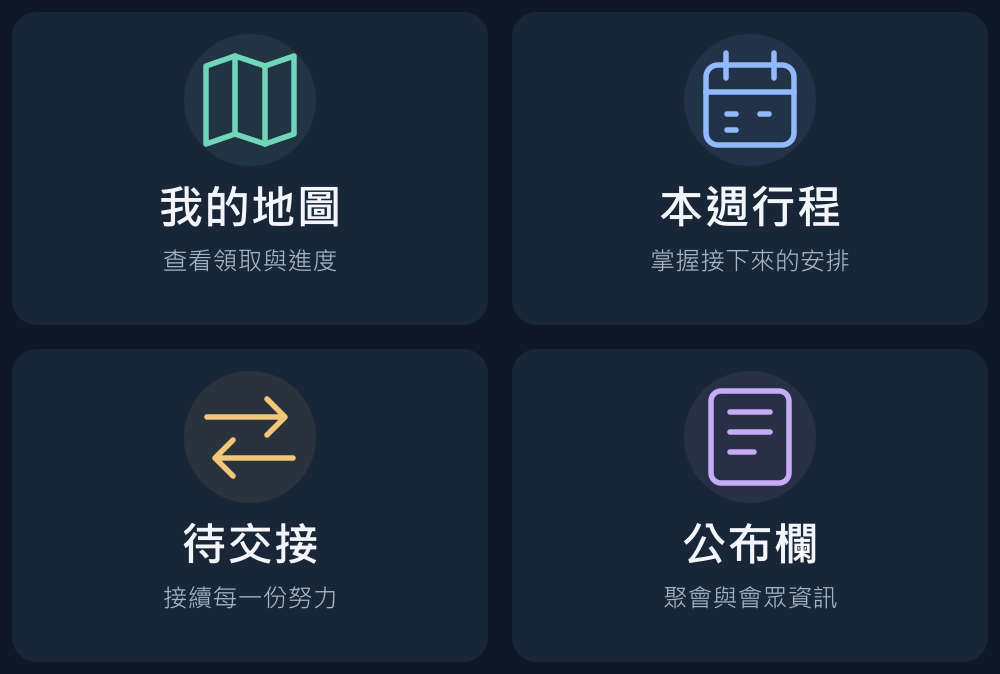
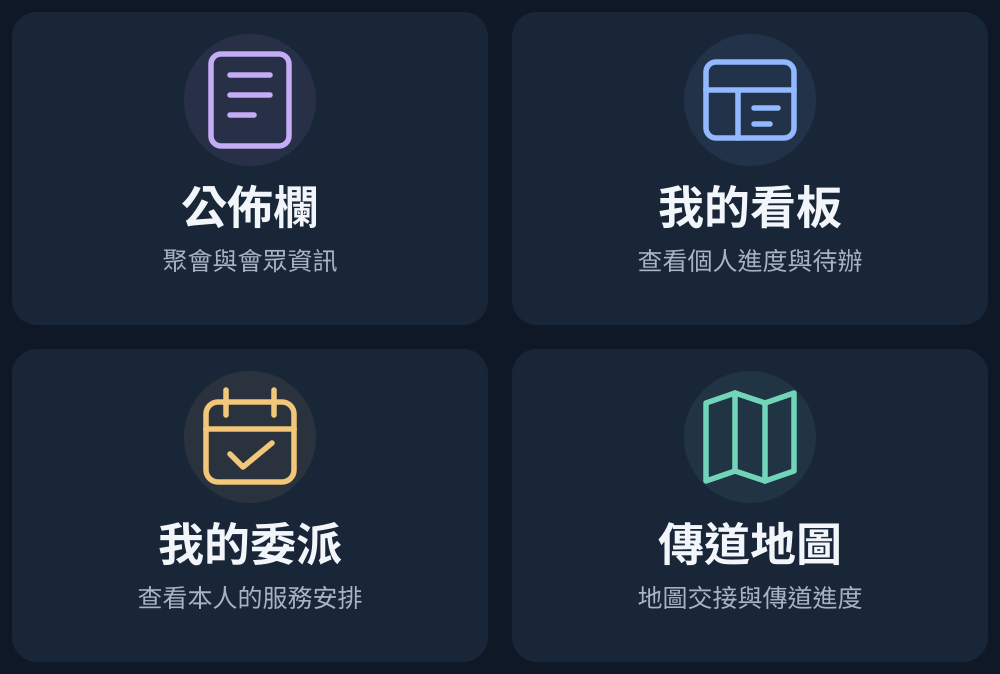
feat: 整合個人委派並分為弟兄服務與節目委派

diff --git a/src/app/dashboard/page.tsx b/src/app/dashboard/page.tsx
@@ -7,7 +7,9 @@ import WeeklyMinistry from '../../components/dashboard/WeeklyMinistry'
 import LineBotStatus from '../../components/dashboard/LineBotStatus'
 import LineNotificationPreference from '../../components/dashboard/LineNotificationPreference'
 import SyncCheck from '../../components/dashboard/SyncCheck'
-type Dashboard = { today: string; handoffs: { areaId: string; label: string; publisher: string; submittedDate: string | null; next: {name: string; date: string} | null }[]; tasks: { id: string; areaId: string; label: string; date: string; status: string }[]; name: string; isAdmin: boolean; maps: { id: string; label: string; sheetNo: number | null; dispatchedDate: string | null; heldDays: number | null; ministryPending: number; ministryActive: boolean; report: { date: string; status: string } | null }[]; pendingRequests: { id: string; label: string; date: string }[]; reviewCount: number | null }
+import PersonalAssignmentsPanel from '../../components/dashboard/PersonalAssignments'
+import type { PersonalAssignments } from '../../lib/personal-assignments'
+type Dashboard = { assignments: PersonalAssignments; today: string; handoffs: { areaId: string; label: string; publisher: string; submittedDate: string | null; next: {name: string; date: string} | null }[]; tasks: { id: string; areaId: string; label: string; date: string; status: string }[]; name: string; isAdmin: boolean; maps: { id: string; label: string; sheetNo: number | null; dispatchedDate: string | null; heldDays: number | null; ministryPending: number; ministryActive: boolean; report: { date: string; status: string } | null }[]; pendingRequests: { id: string; label: string; date: string }[]; reviewCount: number | null }
 export default function DashboardPage() {
   const [data, setData] = useState<Dashboard | null>(null)
   const [error, setError] = useState('')
@@ -25,15 +27,16 @@ export default function DashboardPage() {
   useEffect(() => {
     if (!data) return
     const view = new URLSearchParams(window.location.search).get('view')
-    if (!view || !['maps', 'week', 'handoffs'].includes(view)) return
+    if (!view || !['maps', 'week', 'handoffs', 'assignments'].includes(view)) return
     const frame = requestAnimationFrame(() => document.getElementById(view)?.scrollIntoView({ block: 'start' }))
     return () => cancelAnimationFrame(frame)
   }, [data])
   return <DashboardLayout><div className="mx-auto max-w-6xl space-y-5 p-4 md:p-8 text-mc-text">
-    <header className="flex items-center justify-between gap-3"><div><h1 className="text-xl font-semibold">{data ? `${data.name}的地圖` : '我的地圖'}</h1><p className="mt-1 text-sm text-mc-text/50">查看領取進度與待辦事項</p></div><a href="/area-status" className="flex items-center gap-2 rounded-lg bg-mc-highlight px-3 py-2 text-sm"><MapPinned size={16} />申請領圖</a></header>
+    <header className="flex items-center justify-between gap-3"><div><h1 className="text-xl font-semibold">{data ? `${data.name}的看板` : '我的看板'}</h1><p className="mt-1 text-sm text-mc-text/50">查看個人委派、領取進度與待辦事項</p></div><a href="/area-status" className="flex items-center gap-2 rounded-lg bg-mc-highlight px-3 py-2 text-sm"><MapPinned size={16} />申請領圖</a></header>
     {error && <div role="alert" className="rounded-xl bg-red-400/10 p-4 text-red-300">{error}<button className="ml-3 underline" onClick={() => setRevision(v => v + 1)}>重試</button></div>}
-    {!data && !error && <p role="status" className="py-12 text-center text-mc-text/50">正在載入你的地圖…</p>}
+    {!data && !error && <p role="status" className="py-12 text-center text-mc-text/50">正在載入你的看板…</p>}
     {data && <>
+      <PersonalAssignmentsPanel data={data.assignments} />
       {data.isAdmin && <AdminTaskCenter />}
       {!data.isAdmin && <section id="handoffs" className="rounded-xl border border-amber-400/30 bg-amber-400/10 p-4"><h2 className="mb-3 font-semibold text-amber-300">待交接 · {data.handoffs.length} 張</h2><div className="space-y-2">{!data.handoffs.length && <p className="text-sm text-mc-text/50">暫無待交接地圖</p>}{data.handoffs.map(item => <a key={item.areaId} href={`/map/ministry/${item.areaId}`} className="flex items-center justify-between gap-3 rounded-lg bg-black/10 p-3"><div><strong>{item.label}</strong><p className="mt-1 text-xs text-mc-text/60">{item.publisher} 已提交 · {item.submittedDate || '日期未記錄'}</p><p className="mt-1 text-xs text-amber-200">{item.next ? `下一位：${item.next.name} · ${item.next.date}` : '尚未安排下一位'}</p></div><span className="shrink-0 text-sm">查看交接 →</span></a>)}</div></section>}
       <div className="grid grid-cols-2 gap-3"><div className="rounded-xl border border-white/10 bg-mc-card p-4"><Map className="mb-2 text-blue-300" size={20} /><strong className="text-3xl">{data.maps.length}</strong><p className="mt-1 text-sm text-mc-text/60">我持有的地圖</p></div><a href="/map-requests" className="rounded-xl border border-white/10 bg-mc-card p-4"><Clock3 className="mb-2 text-amber-300" size={20} /><strong className="text-3xl">{data.pendingRequests.length}</strong><p className="mt-1 text-sm text-mc-text/60">我的待審申請</p></a></div>

diff --git a/scripts/check-personal-assignments.ts b/scripts/check-personal-assignments.ts
@@ -1,0 +1,64 @@
+import assert from 'node:assert/strict'
+import type { PrismaClient } from '@prisma/client'
+import { personalAssignments, assignmentsText } from '../src/lib/personal-assignments'
+import { lineBotAnswer } from '../src/lib/line-bot-queries'
+import type { Meeting } from '../src/lib/midweek'
+
+async function main() {
+  let members = [{ id: 'me', name: '王小明' }, { id: 'other', name: '陳小華' }]
+  let person: { id: string } | null = { id: 'person' }
+  let active = true
+  const meeting: Meeting = { date: '2026-10-16', start: '19:30', chair: '王小明', reading: '', note: '', noteHighlight: '', items: [
+    { id: 'talk', section: 'ministry', title: '開始交談', minutes: 3, counsel: 1, role: '學生/助手', person: '王小明', assistant: '陳小華', highlight: '' },
+    { id: 'help', section: 'ministry', title: '培養興趣', minutes: 4, counsel: 1, role: '學生/助手', person: '陳小華', assistant: ' 王小明 ', highlight: '' },
+  ] }
+  const records = [
+    { key: 'midweek:record:current', value: JSON.stringify({ published: meeting, draft: { ...meeting, chair: '陳小華' }, versions: [{ number: 99, meeting: { ...meeting, chair: '陳小華' } }] }) },
+    { key: 'midweek:record:draft', value: JSON.stringify({ published: null, draft: meeting }) },
+    { key: 'midweek:record:past', value: JSON.stringify({ published: { ...meeting, date: '2026-10-09' } }) },
+    { key: 'midweek:record:future', value: JSON.stringify({ published: { ...meeting, date: '2027-01-01' } }) },
+  ]
+  const db = {
+    member: { findMany: async () => members, findUnique: async () => ({ id: 'me', active }) },
+    servicePerson: { findUnique: async () => person },
+    serviceWeek: { findMany: async () => [
+      { startDate: '2026-10-12', endDate: '2026-10-18', stopped: false, assignments: { micA: { personId: 'person', name: '舊姓名' }, audio: { personId: 'person', name: '王小明' }, stage: { personId: 'else', name: '王小明' }, watchtower: { personId: 'person', name: '王小明' } } },
+      { startDate: '2026-10-19', endDate: '2026-10-25', stopped: true, assignments: { audio: { personId: 'person', name: '王小明' } } },
+    ] },
+    setting: { findMany: async () => records },
+  } as unknown as PrismaClient
+  const now = new Date('2026-10-17T02:00:00Z')
+  const data = await personalAssignments(db, 'me', now)
+  assert.equal(data.upcoming.length, 9)
+  assert.equal(data.past.length, 3)
+  assert.equal(data.upcoming.filter(i => i.kind === 'service').length, 2)
+  assert.equal(data.upcoming.filter(i => i.kind === 'program').length, 7)
+  assert.equal(data.upcoming.find(i => i.title === '守望台朗讀')?.kind, 'program')
+  assert.equal(data.upcoming.filter(i => i.role === '助手').length, 2)
+  assert.equal(data.upcoming.filter(i => i.role === '學生').length, 2)
+  assert.equal(data.upcoming.filter(i => i.title === '主席').length, 2)
+  assert(!data.upcoming.some(i => i.id.includes('draft')))
+  assert(!data.upcoming.some(i => i.title === '講台'))
+  assert.match(await lineBotAnswer(db, 'uid', '我的委派', now), /開始交談（學生）/)
+  assert.match(assignmentsText(data, 'https://example.test/dashboard'), /完整委派與過去紀錄/)
+  const long = assignmentsText({ ...data, upcoming: Array.from({ length: 100 }, (_, i) => ({ ...data.upcoming[0], title: '很長的節目'.repeat(60), id: String(i) })) }, 'https://example.test/dashboard')
+  assert(long.length <= 4500)
+  assert.match(long, /另有 \d+ 項/)
+  assert.match(long, /https:\/\/example.test\/dashboard\/assignments\/service/)
+  assert.match(long, /https:\/\/example.test\/dashboard\/assignments\/program/)
+  const sunday = await personalAssignments(db, 'me', new Date('2026-10-18T15:59:59Z'))
+  const monday = await personalAssignments(db, 'me', new Date('2026-10-18T16:00:00Z'))
+  assert.equal(sunday.upcoming.length, 9)
+  assert.equal(monday.upcoming.length, 3)
+  members = [...members, { id: 'duplicate', name: ' 王小明 ' }]
+  assert.equal((await personalAssignments(db, 'me', now)).upcoming.length, 3)
+  assert.match((await personalAssignments(db, 'me', now)).notices.join(''), /姓名/)
+  person = null
+  const empty = await personalAssignments(db, 'me', now)
+  assert.equal(empty.upcoming.length, 0)
+  assert.match(assignmentsText(empty, 'https://example.test'), /沒有本週/)
+  active = false
+  assert.match(await lineBotAnswer(db, 'uid', '我的委派', now), /停用/)
+  console.log('PASS: personal identity, published snapshots, all roles, stopped weeks, Taipei week boundary, duplicate names, LINE query and long replies')
+}
+main().catch(error => { console.error(error); process.exitCode = 1 })

diff --git a/src/lib/personal-assignments.ts b/src/lib/personal-assignments.ts
@@ -1,0 +1,66 @@
+import type { PrismaClient } from '@prisma/client'
+import { taipeiDate } from './google-sheets'
+import { addDays, serviceRoles, type Assignments } from './service-roster'
+import type { MeetingRecord } from './midweek'
+
+export type AssignmentKind = 'service' | 'program'
+export type PersonalAssignment = { kind: AssignmentKind; id: string; date: string; endDate: string; category: string; title: string; role: string; href: string }
+export type PersonalAssignments = { upcoming: PersonalAssignment[]; past: PersonalAssignment[]; notices: string[] }
+
+export async function personalAssignments(db: PrismaClient, memberId: string, now = new Date()): Promise<PersonalAssignments> {
+  const [members, person, weeks, records] = await Promise.all([
+    db.member.findMany({ where: { active: true, deletedAt: null }, select: { id: true, name: true } }),
+    db.servicePerson.findUnique({ where: { memberId }, select: { id: true } }),
+    db.serviceWeek.findMany({ where: { stopped: false }, orderBy: { startDate: 'asc' } }),
+    db.setting.findMany({ where: { key: { startsWith: 'midweek:record:' } } }),
+  ])
+  const member = members.find(m => m.id === memberId)
+  if (!member) return { upcoming: [], past: [], notices: [] }
+  const name = member.name.trim()
+  const uniqueName = !!name && members.filter(m => m.name.trim() === name).length === 1
+  const notices = []
+  if (!uniqueName) notices.push('週中節目姓名無法唯一對應，請管理員確認成員姓名。')
+  if (!person) notices.push('帳號尚未連結服務安排人員，請管理員確認。')
+  const entries: PersonalAssignment[] = []
+  for (const week of weeks) {
+    if (week.stopped || !person) continue
+    const assignments = week.assignments as Assignments
+    for (const role of serviceRoles) if (assignments[role.id]?.personId === person.id) {
+      entries.push({ kind: ['watchtower', 'chair', 'reader'].includes(role.id) ? 'program' : 'service', id: `service:${week.startDate}:${role.id}`, date: week.startDate, endDate: week.endDate, category: '服務安排', title: role.label, role: '', href: '/bulletin/service-roster/all?tab=mine' })
+    }
+  }
+  if (uniqueName) for (const row of records) {
+    const meeting = (JSON.parse(row.value) as MeetingRecord).published
+    if (!meeting) continue
+    const href = `/bulletin/midweek-meeting?week=${encodeURIComponent(row.key.slice('midweek:record:'.length))}`
+    const add = (id: string, title: string, role: string) => entries.push({ kind: 'program', id: `${row.key}:${id}`, date: meeting.date, endDate: meeting.date, category: '週中聚會', title, role, href })
+    if (meeting.chair.trim() === name) add('chair', '主席', '')
+    for (const item of meeting.items) {
+      if (item.person.trim() === name) add(`${item.id}:person`, item.title, item.role === '學生/助手' ? '學生' : item.role || '負責人')
+      if (item.assistant.trim() === name) add(`${item.id}:assistant`, item.title, '助手')
+    }
+  }
+  const today = taipeiDate(now)
+  const monday = addDays(today, -((new Date(`${today}T04:00:00Z`).getUTCDay() + 6) % 7))
+  const isUpcoming = (item: PersonalAssignment) => item.category === '服務安排' ? item.endDate >= today : item.date >= monday
+  entries.sort((a, b) => a.date.localeCompare(b.date) || a.id.localeCompare(b.id))
+  return { upcoming: entries.filter(isUpcoming), past: entries.filter(item => !isUpcoming(item)).reverse(), notices }
+}
+
+export function assignmentsText(data: PersonalAssignments, dashboardUrl: string): string {
+  const base = new URL(dashboardUrl).origin
+  const sections = ([['service', '弟兄服務'], ['program', '節目委派']] as const).map(([kind, label]) => {
+    const items = data.upcoming.filter(item => item.kind === kind)
+    let text = `【${label}】本週起 · ${items.length} 項`
+    let count = 0
+    for (const item of items) {
+      const line = `\n• ${item.date}${item.endDate !== item.date ? `～${item.endDate}` : ''}｜${item.category}｜${item.title}${item.role ? `（${item.role}）` : ''}`
+      if (text.length + line.length > 1750) break
+      text += line; count++
+    }
+    if (!items.length) text += '\n目前沒有本週及未來已公布的委派。'
+    if (count < items.length) text += `\n另有 ${items.length - count} 項，請至網站查看。`
+    return `${text}\n${base}/dashboard/assignments/${kind}`
+  })
+  return `我的委派\n${sections.join('\n\n')}${data.notices.length ? `\n\n${data.notices.join('\n')}` : ''}\n\n完整委派與過去紀錄請開啟上述連結。`
+}

diff --git a/src/app/api/dashboard/route.ts b/src/app/api/dashboard/route.ts
@@ -5,6 +5,7 @@ import { allocationLabel, isAreaDispatched, idleCalendarDays } from '../../../li
 import { ministryCycle } from '../../../lib/ministry'
 import { ministryHandoff } from '../../../lib/ministry-handoffs'
 import { taipeiDate } from '../../../lib/google-sheets'
+import { personalAssignments } from '../../../lib/personal-assignments'
 export const dynamic = 'force-dynamic'
 export async function GET() {
   const auth = await requireApiUser()
@@ -12,11 +13,12 @@ export async function GET() {
   try {
     const memberId = auth.user.id!
     const isAdmin = auth.user.role === 'admin'
-    const [areas, pendingRequests, reviewCount, assignedVisits] = await Promise.all([
+    const [areas, pendingRequests, reviewCount, assignedVisits, assignments] = await Promise.all([
       prisma.area.findMany({ where: { assignedMemberId: memberId }, select: { id: true, name: true, mapId: true, mapAreaId: true, sheetNo: true, assignedMemberId: true, dispatchedAt: true, completedAt: true, ministryVisits: { select: { status: true, cycleKey: true, publisherName: true, scheduledDate: true, submittedAt: true } }, reports: { where: { memberId }, orderBy: { submittedAt: 'desc' }, take: 1, select: { submittedAt: true, status: true } } }, orderBy: { dispatchedAt: 'asc' } }),
       prisma.mapRequest.findMany({ where: { memberId, status: 'pending' }, select: { id: true, createdAt: true, area: { select: { name: true, mapId: true, mapAreaId: true, sheetNo: true } } }, orderBy: { createdAt: 'asc' } }),
       isAdmin ? prisma.mapRequest.count({ where: { status: 'pending' } }) : Promise.resolve(null),
       prisma.ministryVisit.findMany({ where: { publisherId: memberId, status: { in: ['planned', 'active'] } }, include: { area: { select: { id: true, name: true, mapId: true, sheetNo: true, mapAreaId: true, assignedMemberId: true, dispatchedAt: true, completedAt: true } } }, orderBy: { scheduledDate: 'asc' } }),
+      personalAssignments(prisma, memberId),
     ])
     const today = taipeiDate(new Date())
     const maps = areas.filter(isAreaDispatched).map(area => {
@@ -28,6 +30,6 @@ export async function GET() {
       return handoff ? [handoff] : []
     })
     const tasks = assignedVisits.filter(v => isAreaDispatched(v.area) && v.cycleKey === ministryCycle(v.area)).map(v => ({ id: v.id, areaId: v.areaId, label: allocationLabel(v.area), date: v.scheduledDate, status: v.status }))
-    return NextResponse.json({ today, handoffs, tasks, name: auth.user.name || '成員', isAdmin, maps, pendingRequests: pendingRequests.map(r => ({ id: r.id, label: allocationLabel(r.area), date: taipeiDate(r.createdAt) })), reviewCount }, { headers: { 'Cache-Control': 'no-store' } })
+    return NextResponse.json({ today, assignments, handoffs, tasks, name: auth.user.name || '成員', isAdmin, maps, pendingRequests: pendingRequests.map(r => ({ id: r.id, label: allocationLabel(r.area), date: taipeiDate(r.createdAt) })), reviewCount }, { headers: { 'Cache-Control': 'no-store' } })
   } catch { return NextResponse.json({ error: '暫時無法讀取你的地圖，請稍後重試。' }, { status: 503 }) }
 }

diff --git a/src/components/dashboard/PersonalAssignments.tsx b/src/components/dashboard/PersonalAssignments.tsx
@@ -1,0 +1,25 @@
+import Link from 'next/link'
+import type { AssignmentKind, PersonalAssignment, PersonalAssignments } from '@/lib/personal-assignments'
+
+function AssignmentList({ items }: { items: PersonalAssignment[] }) {
+  return <ul className="divide-y divide-white/10">{items.map(item => <li key={item.id}>
+    <a href={item.href} className="block rounded-lg py-3 hover:bg-white/5 focus-visible:outline focus-visible:outline-2">
+      <p className="text-sm text-mc-text/60"><time dateTime={item.date}>{item.date}</time>{item.endDate !== item.date && ` ～ ${item.endDate}`} · {item.category}</p>
+      <p className="mt-1 font-medium">{item.title}{item.role && <span className="ml-2 text-blue-300">{item.role}</span>}</p>
+    </a>
+  </li>)}</ul>
+}
+
+export default function PersonalAssignmentsPanel({ data, kind = 'service' }: { data: PersonalAssignments; kind?: AssignmentKind }) {
+  const upcoming = data.upcoming.filter(item => item.kind === kind)
+  const past = data.past.filter(item => item.kind === kind)
+  return <section id="assignments" className="scroll-mt-16 rounded-xl border border-white/10 bg-mc-card p-4">
+    <h2 className="font-semibold">我的委派 <span className="text-sm font-normal text-mc-text/60">本週起 · {upcoming.length} 項</span></h2>
+    <nav aria-label="我的委派分類" className="my-4 grid grid-cols-2 gap-2">{([['service', '弟兄服務'], ['program', '節目委派']] as const).map(([value, label]) => <Link key={value} href={`/dashboard/assignments/${value}`} aria-current={kind === value ? 'page' : undefined} className={`rounded-lg border px-3 py-3 text-center font-medium ${kind === value ? 'border-blue-400/40 bg-blue-400/15 text-blue-200' : 'border-white/10 text-mc-text/70 hover:bg-white/5'}`}>{label} <span className="text-sm">{data.upcoming.filter(item => item.kind === value).length}</span></Link>)}</nav>
+    {data.notices.map(notice => <p key={notice} className="mt-3 text-sm text-amber-300">{notice}</p>)}
+    {upcoming.length ? <AssignmentList items={upcoming} /> : <p className="py-4 text-sm text-mc-text/60">目前沒有本週及未來已公布的委派。</p>}
+    <details className="mt-2 border-t border-white/10 pt-3"><summary className="cursor-pointer text-sm text-mc-text/60">過去委派（{past.length} 項）</summary>
+      {past.length ? <AssignmentList items={past} /> : <p className="py-3 text-sm text-mc-text/60">沒有過去委派。</p>}
+    </details>
+  </section>
+}

diff --git a/src/lib/line-bot-queries.ts b/src/lib/line-bot-queries.ts
@@ -6,6 +6,8 @@ import { taipeiDate } from './google-sheets'
 import { botSite, lineDisplayName } from './line-bot-client'
 import { pendingLineMessage, recordPendingLineIdentity } from './pending-line-identities'
 
+import { personalAssignments, assignmentsText } from './personal-assignments'
+
 export async function lineBotAnswer(db: PrismaClient, uid: string, command: string, now = new Date()) {
   const member = await db.member.findUnique({ where: { lineuid: uid }, select: { id: true, active: true } })
   if (!member) {
@@ -15,6 +17,7 @@ export async function lineBotAnswer(db: PrismaClient, uid: string, command: stri
   }
   if (!member.active) return '此成員帳號已停用，請聯絡管理員確認權限。'
   const footer = `\n\n開啟網站查看詳情：\n${botSite}/dashboard`
+  if (command === '我的委派') return assignmentsText(await personalAssignments(db, member.id, now), `${botSite}/dashboard?view=assignments`)
   if (command === '本週行程') {
     const rows = await db.ministryVisit.findMany({ where: { publisherId: member.id, status: { in: ['planned','active'] } }, include: { area: true }, orderBy: { scheduledDate: 'asc' } })
     const tasks = rows.filter(v=>isAreaDispatched(v.area)&&v.cycleKey===ministryCycle(v.area)).map(v=>({ id:v.id,areaId:v.areaId,label:allocationLabel(v.area),date:v.scheduledDate,status:v.status }))
@@ -28,5 +31,5 @@ export async function lineBotAnswer(db: PrismaClient, uid: string, command: stri
     const maps = areas.filter(isAreaDispatched).filter(a=>command==='我的地圖'||(a.ministryVisits.some(v=>v.cycleKey===ministryCycle(a)&&v.status==='submitted')&&!a.ministryVisits.some(v=>v.cycleKey===ministryCycle(a)&&v.status==='active')))
     return `${command} · ${maps.length} 張\n${maps.slice(0,20).map(allocationLabel).join('\n')||'目前沒有地圖'}${maps.length>20?'\n更多地圖請至網站查看。':''}${footer}`
   }
-  return `地圖分配系統\n請點下方「我的地圖」「本週行程」或「待交接」。\n查看交接摘要、塗畫、預排與回報請開啟網站。${footer}`
+  return `地圖分配系統\n請點下方「我的委派」「我的地圖」「本週行程」或「待交接」。\n查看交接摘要、塗畫、預排與回報請開啟網站。${footer}`
 }

diff --git a/src/lib/line-rich-menu.ts b/src/lib/line-rich-menu.ts
@@ -3,22 +3,22 @@ import { randomUUID } from 'crypto'
 import { readFile } from 'fs/promises'
 import path from 'path'
 import { botSite, lineBotReady } from './line-bot-client'
-import { configuredLiffId } from './liff-settings'
+import { configuredLiffId, liffDestination } from './liff-settings'
 
 const liffId = configuredLiffId()
-const stateKey = liffId ? `line_rich_menu_liff_${liffId}` : 'line_rich_menu_v2'
-const menuUrl = (view: string) => liffId ? `https://liff.line.me/${liffId}/?view=${view}` : view === 'bulletin' ? `${botSite}/bulletin` : `${botSite}/dashboard?view=${view}`
+const stateKey = liffId ? `line_rich_menu_v4_liff_${liffId}` : 'line_rich_menu_v4'
+const menuUrl = (view: string) => liffId ? `https://liff.line.me/${liffId}/?view=${view}` : `${botSite}${liffDestination(view)}`
 const lockKey = 'line_rich_menu_publish_lock'
 const api = 'https://api.line.me/v2/bot'
 const dataApi = 'https://api-data.line.me/v2/bot'
 export const menuDefinition = {
   size: { width: 1000, height: 674 }, selected: true,
-  name: liffId ? '楠梓會眾 LIFF 選單' : '楠梓會眾功能選單 v2', chatBarText: '開啟功能選單',
+  name: liffId ? '楠梓會眾 LIFF 選單 v4' : '楠梓會眾功能選單 v4', chatBarText: '開啟功能選單',
   areas: [
-    { bounds: { x: 0, y: 0, width: 500, height: 337 }, action: { type: 'uri', uri: menuUrl('maps') } },
-    { bounds: { x: 500, y: 0, width: 500, height: 337 }, action: { type: 'uri', uri: menuUrl('week') } },
-    { bounds: { x: 0, y: 337, width: 500, height: 337 }, action: { type: 'uri', uri: menuUrl('handoffs') } },
-    { bounds: { x: 500, y: 337, width: 500, height: 337 }, action: { type: 'uri', uri: menuUrl('bulletin') } },
+    { bounds: { x: 0, y: 0, width: 500, height: 337 }, action: { type: 'uri', uri: menuUrl('bulletin') } },
+    { bounds: { x: 500, y: 0, width: 500, height: 337 }, action: { type: 'uri', uri: menuUrl('dashboard') } },
+    { bounds: { x: 0, y: 337, width: 500, height: 337 }, action: { type: 'message', text: '我的委派' } },
+    { bounds: { x: 500, y: 337, width: 500, height: 337 }, action: { type: 'uri', uri: menuUrl('handoffs') } },
   ],
 }
 export class RichMenuError extends Error {

diff --git a/src/components/dashboard/LineRichMenu.tsx b/src/components/dashboard/LineRichMenu.tsx
@@ -32,10 +32,10 @@ export default function LineRichMenu() {
   }
   return <details className="mt-4 border-t border-white/10 pt-3">
     <summary className="cursor-pointer text-sm">底部圖文選單 · {status?.installed ? '已發布' : status ? '待發布' : '尚未確認'}</summary>
-    <p className="mt-3 text-xs leading-6 text-mc-text/60">前三格直接查詢，公布欄開啟網站。未確認身分的使用者仍需由管理員連結成員。</p>
+    <p className="mt-3 text-xs leading-6 text-mc-text/60">我的委派直接在 LINE 列出服務安排與週中節目；其他選單開啟對應網頁，傳道地圖直達地圖交接。未確認身分的使用者仍需由管理員連結成員。</p>
     {/* A fixed PNG is also the exact image uploaded to LINE. */}
     {/* eslint-disable-next-line @next/next/no-img-element */}
-    <img src="/line/rich-menu-v1.png" alt="四格圖文選單：我的地圖、本週行程、待交接、公布欄" width={1000} height={674} className="mt-3 w-full max-w-sm rounded-xl border border-white/10" />
+    <img src="/line/rich-menu-v1.png" alt="四格圖文選單：公佈欄、我的看板、我的委派、傳道地圖" width={1000} height={674} className="mt-3 w-full max-w-sm rounded-xl border border-white/10" />
     <div className="mt-3 flex flex-wrap gap-2">
       <button disabled={busy || !status?.enabled || status.installed} onClick={() => void publish()} className="min-h-11 rounded-lg bg-mc-highlight px-4 text-sm disabled:opacity-40">{busy ? '發布中…' : status?.installed ? '已發布至 LINE' : '發布至 LINE'}</button>
       <button disabled={busy} onClick={() => void load()} className="min-h-11 rounded-lg bg-white/5 px-4 text-sm disabled:opacity-40">重新整理狀態</button>

diff --git a/src/app/dashboard/assignments/[kind]/page.tsx b/src/app/dashboard/assignments/[kind]/page.tsx
@@ -1,0 +1,21 @@
+import Link from 'next/link'
+import { notFound, redirect } from 'next/navigation'
+import DashboardLayout from '@/components/layout/DashboardLayout'
+import PersonalAssignmentsPanel from '@/components/dashboard/PersonalAssignments'
+import { requireApiUser } from '@/lib/api-auth'
+import { prisma } from '@/lib/db'
+import { personalAssignments } from '@/lib/personal-assignments'
+
+export const dynamic = 'force-dynamic'
+
+export default async function AssignmentsPage({ params }: { params: { kind: string } }) {
+  if (params.kind !== 'service' && params.kind !== 'program') notFound()
+  const auth = await requireApiUser()
+  if ('response' in auth) redirect('/login')
+  const data = await personalAssignments(prisma, auth.user.id!)
+  return <DashboardLayout><div className="mx-auto max-w-4xl space-y-4 p-4 md:p-8 text-mc-text">
+    <Link href="/dashboard" className="inline-block py-2 text-sm text-mc-text/60">← 我的看板</Link>
+    <h1 className="text-xl font-semibold">{params.kind === 'service' ? '弟兄服務' : '節目委派'}</h1>
+    <PersonalAssignmentsPanel data={data} kind={params.kind} />
+  </div></DashboardLayout>
+}

diff --git a/src/app/bulletin/[category]/all/page.tsx b/src/app/bulletin/[category]/all/page.tsx
@@ -5,13 +5,13 @@ import ServiceRosterOverview from '@/components/bulletin/ServiceRosterOverview'
 
 export const metadata = { title: '所有週次｜服務安排' }
 
-export default function RosterOverviewPage({ params }: { params: { category: string } }) {
+export default function RosterOverviewPage({ params, searchParams }: { params: { category: string }; searchParams: { tab?: string } }) {
   if (params.category !== 'service-roster') notFound()
   return <DashboardLayout publicView>
     <div className="mb-5 flex flex-wrap items-center justify-between gap-3">
       <h1 className="text-2xl font-semibold">所有週次</h1>
       <Link href="/bulletin/service-roster" className="flex min-h-12 items-center rounded-lg border border-white/10 px-3 text-lg">返回本週</Link>
     </div>
-    <ServiceRosterOverview />
+    <ServiceRosterOverview initialTab={searchParams.tab === 'mine' ? 'mine' : 'microphones'} />
   </DashboardLayout>
 }

diff --git a/src/lib/line-bot-client.ts b/src/lib/line-bot-client.ts
@@ -30,5 +30,5 @@ export async function lineRequest(kind: 'reply' | 'push', body: unknown, retryKe
   return { accepted: response.ok || (kind === 'push' && response.status === 409 && !!response.headers.get('x-line-accepted-request-id')), status: response.status }
 }
 export function botText(text: string) {
-  return { type: 'text', text: text.slice(0,4500), quickReply: { items: [...['我的地圖','本週行程','待交接'].map(label=>({ type: 'action', action: { type: 'message', label, text: label } })), { type: 'action', action: { type: 'uri', label: '通知設定', uri: `${botSite}/dashboard` } }] } }
+  return { type: 'text', text: text.slice(0,4500), quickReply: { items: [...['我的委派','我的地圖','本週行程','待交接'].map(label=>({ type: 'action', action: { type: 'message', label, text: label } })), { type: 'action', action: { type: 'uri', label: '通知設定', uri: `${botSite}/dashboard` } }] } }
 }

diff --git a/src/components/bulletin/ServiceRosterOverview.tsx b/src/components/bulletin/ServiceRosterOverview.tsx
@@ -9,9 +9,9 @@ import useRosterIdentity from './useRosterIdentity'
 
 type Snapshot = { initialized: boolean; weeks: ServiceWeekData[] }
 
-export default function ServiceRosterOverview() {
+export default function ServiceRosterOverview({ initialTab = 'microphones' }: { initialTab?: string }) {
   const { personId: ownPersonId, signedIn } = useRosterIdentity()
-  const [tab, setTab] = useState('microphones')
+  const [tab, setTab] = useState(initialTab)
   const [data, setData] = useState<Snapshot | null>(null)
   const [personId, setPersonId] = useState('')
   const [error, setError] = useState('')
